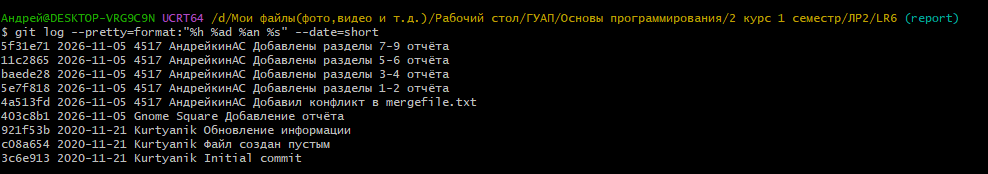
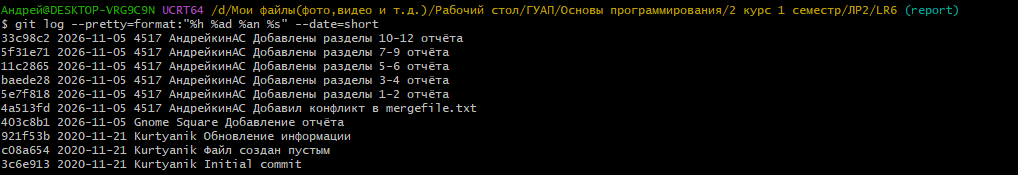
Добавлен лог команд и выводы

Changed region(s): [[0.0, 0.0287, 0.9717, 0.977]]

diff --git a/README.md b/README.md
@@ -175,3 +175,52 @@ git log --pretty=format:"%h %ad %an %s" --date=short
 ![Рисунок 23](screenshots/23.png)
 
 Рисунок 23 – Отправка ветки report на GitHub
+
+## Лог команд
+
+```
+git config --global user.name "4517 АндрейкинАС"
+git config --global user.email "andreikinadrej@gmail.com"
+git clone https://github.com/KvodratnoeSozdanie/LR6
+cd LR6
+git pull
+git checkout -b additional
+git add mergefile.txt
+git commit -m "Поменял информацию в mergefile.txt"
+git checkout master
+git add mergefile.txt
+git commit -m "Добавил конфликт в mergefile.txt"
+git log --oneline
+git log --oneline additional
+git log --oneline --graph --all
+git diff master..additional
+git merge additional
+git add mergefile.txt
+git commit -m "Исправлен конфликт в файле mergefile.txt"
+git branch -d additional
+git reset --hard HEAD~1
+git checkout -b report
+git push -u origin report
+git add README.md screenshots
+git commit -m "Добавлены разделы 1-2 отчёта"
+git push
+git add README.md
+git commit -m "Добавлены разделы 3-4 отчёта"
+git push
+git add README.md
+git commit -m "Добавлены разделы 5-6 отчёта"
+git push
+git add README.md
+git commit -m "Добавлены разделы 7-9 отчёта"
+git push
+git log --pretty=format:"%h %ad %an %s" --date=short
+git add README.md screenshots
+git commit -m "Добавлены разделы 10-12 отчёта"
+git push
+```
+
+## Выводы
+
+В ходе выполнения данной лабораторной работы были получены навыки работы с системой контроля версий Git: настройка клиента, клонирование репозитория, создание и удаление веток, фиксация изменений с комментариями, слияние веток с разрешением конфликта, откат коммита и отправка изменений в удалённый репозиторий.
+
+Работа с локальным и удалённым репозиторием позволила понять, что изменения, внесённые через интерфейс GitHub, попадают в локальный репозиторий только после выполнения `git pull`, а локальные изменения в удалённый – после `git push`. Конфликт слияния возник из-за изменения одной и той же строки в двух ветках и был разрешён вручную с последующей фиксацией результата.
